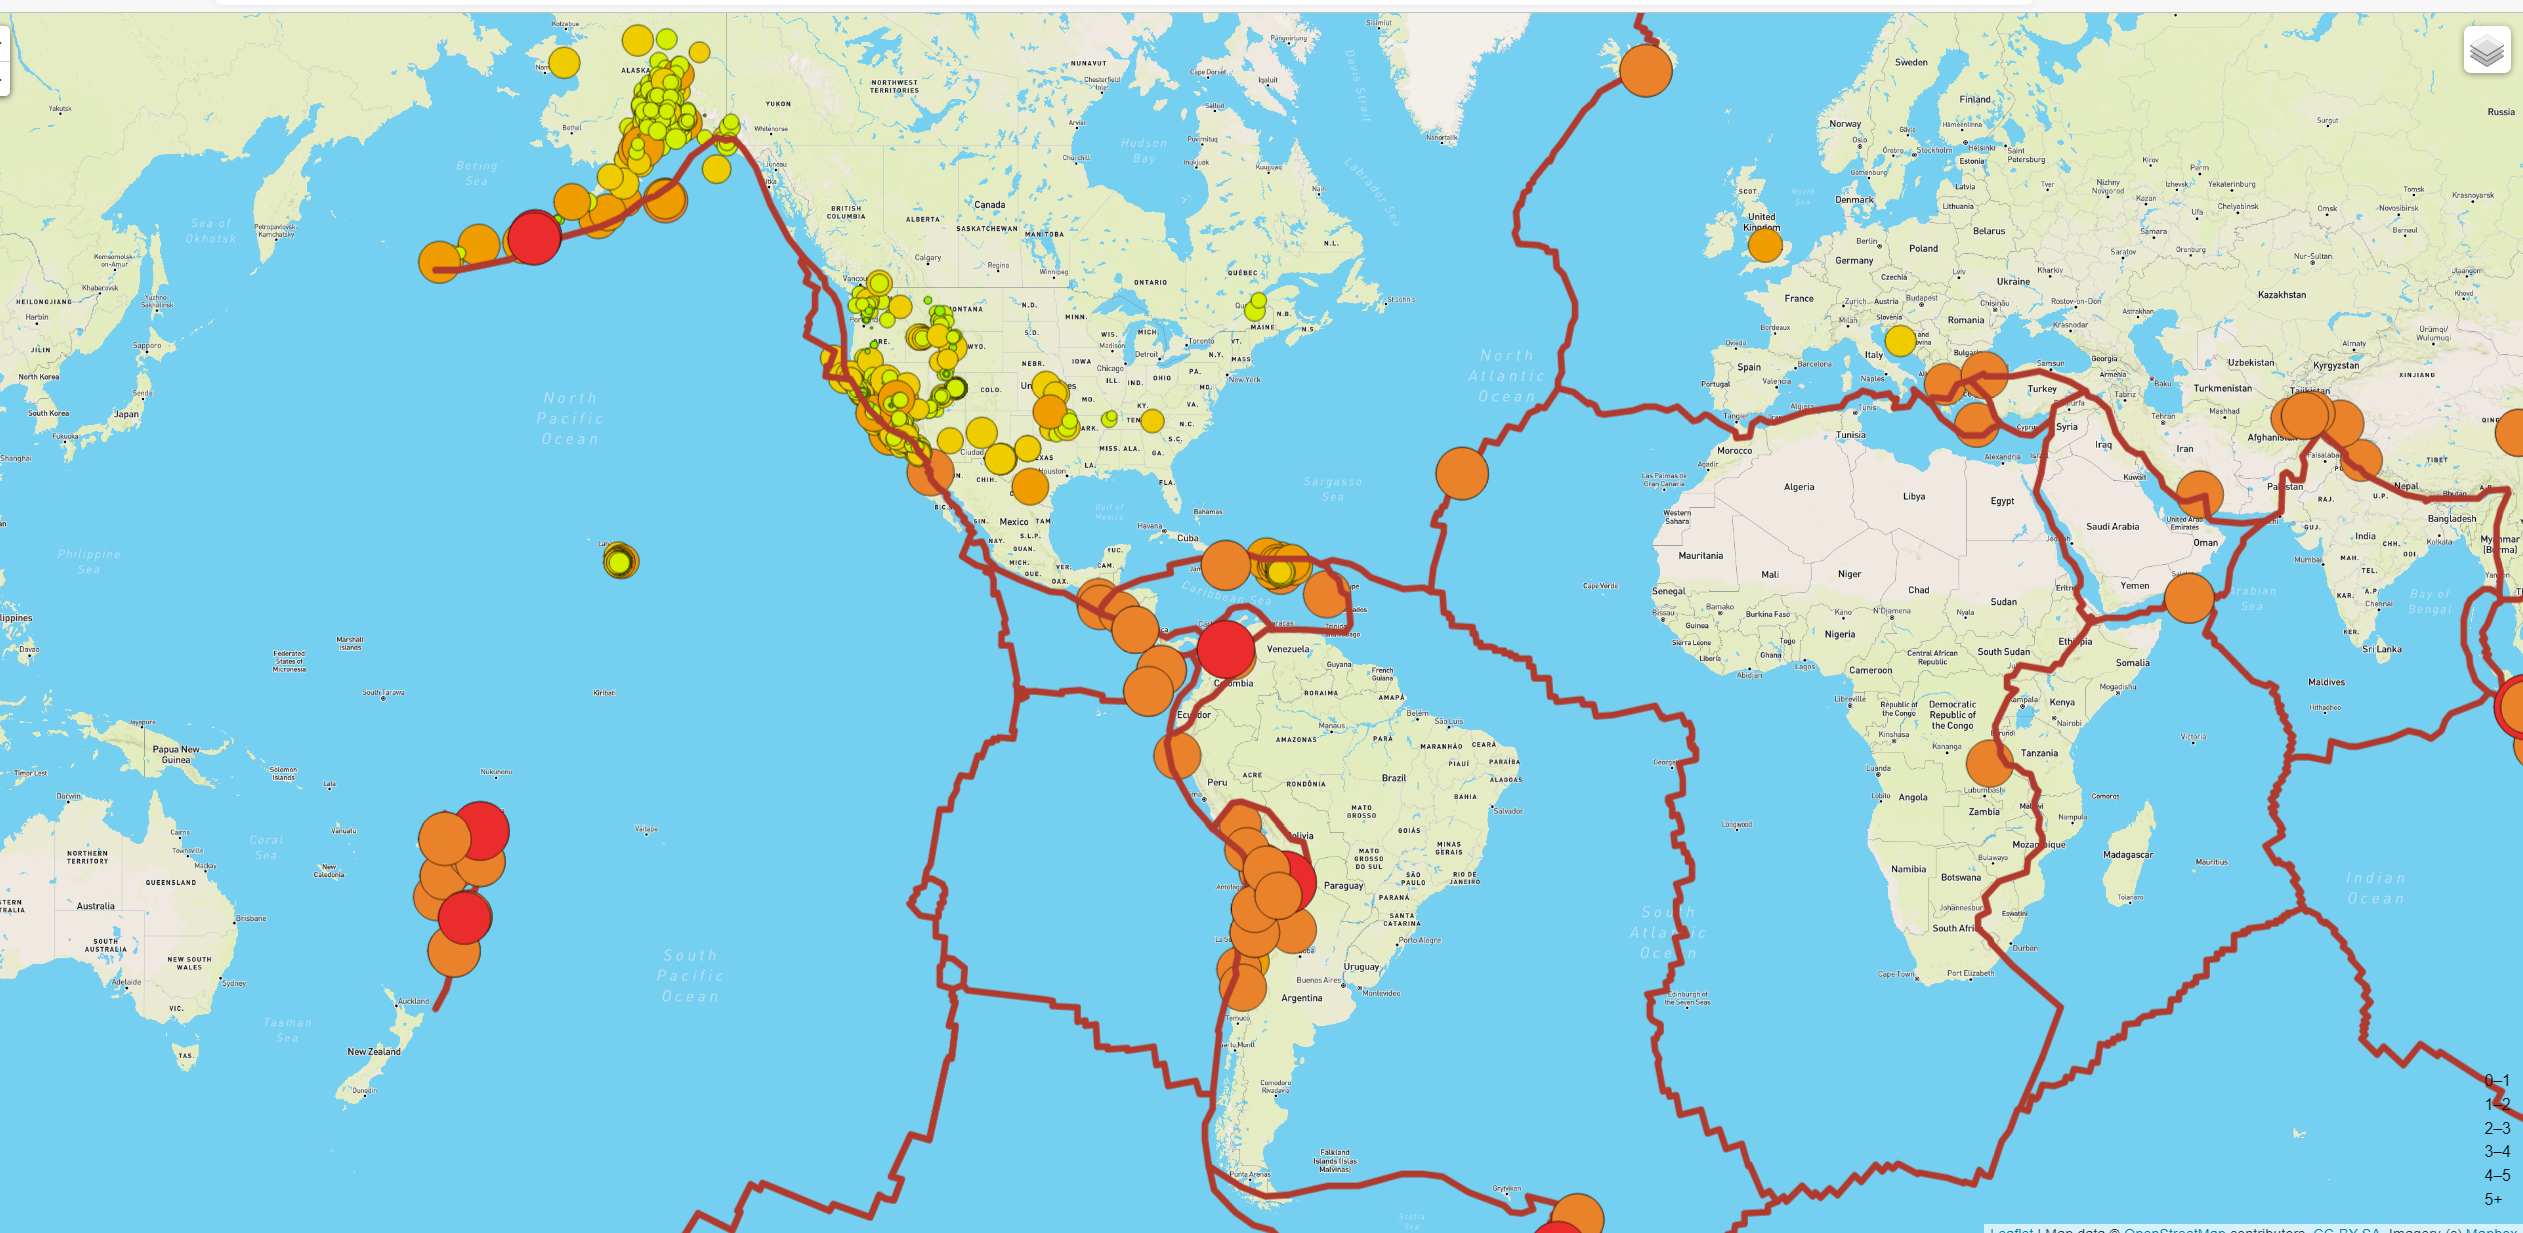
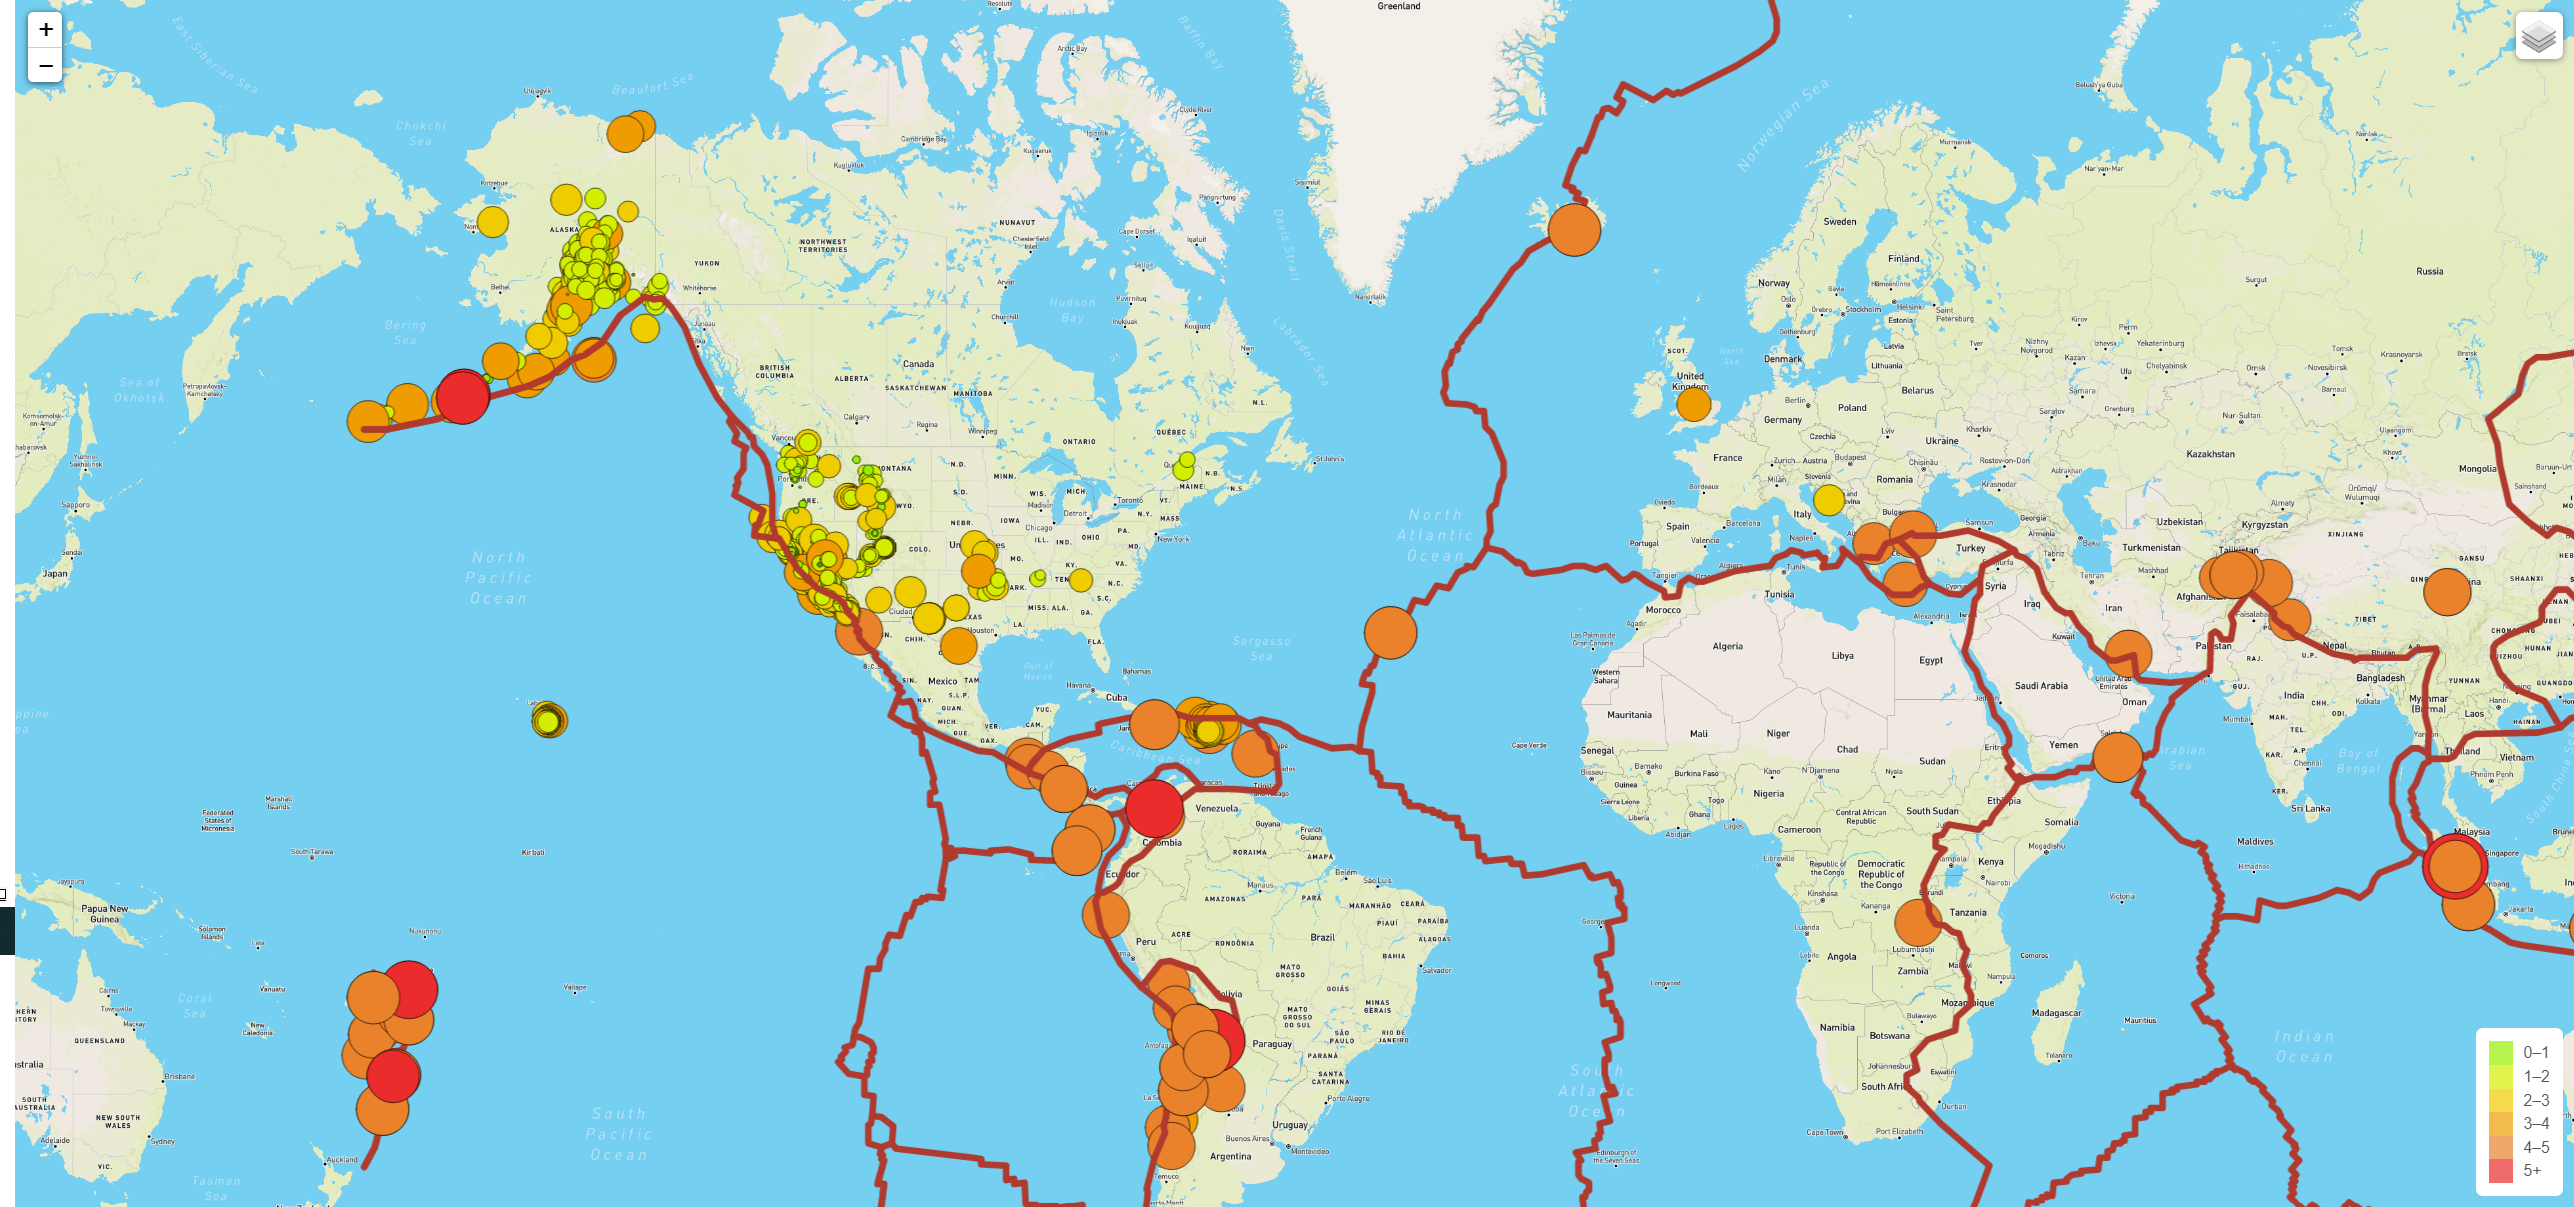
Adding Challenge files

diff --git a/Earthquake_Challenge/static/css/style.css b/Earthquake_Challenge/static/css/style.css
@@ -6,3 +6,18 @@ body,
   padding: 0;
   margin: 0;
 }
+
+.legend {
+  padding: 10px;
+  line-height: 18px;
+  color: #555;
+  background-color: #fff;
+  border-radius: 5px;
+}
+.legend i {
+  float : left;
+  width : 18px;
+  height : 18px;
+  margin-right : 8px;
+  opacity : 0.7;
+}
